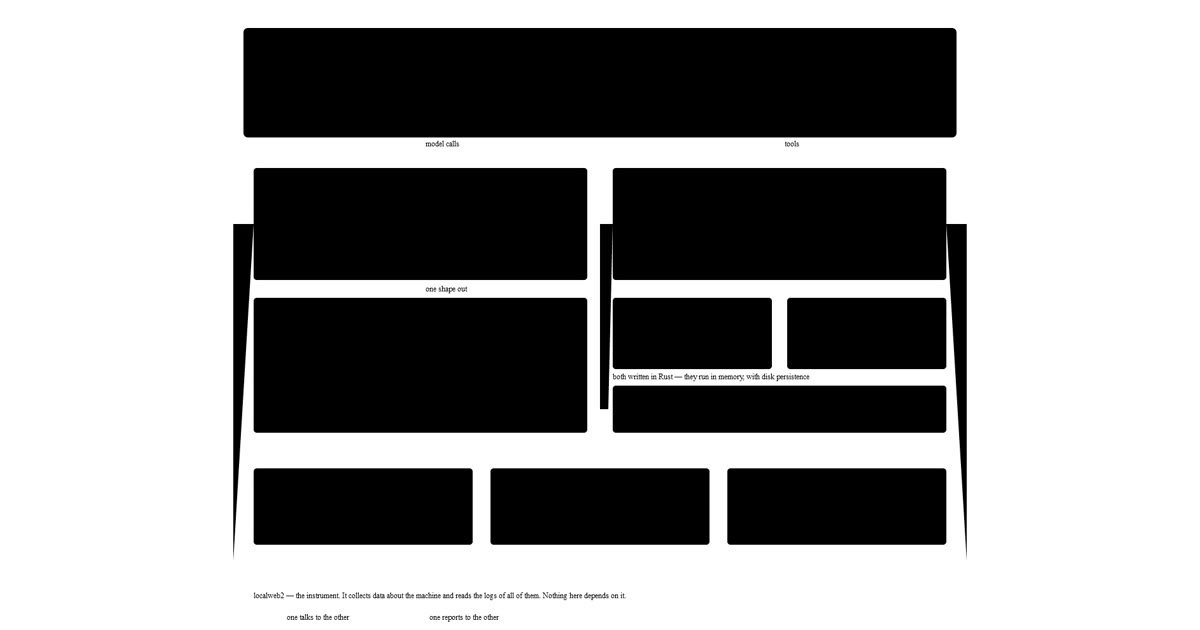
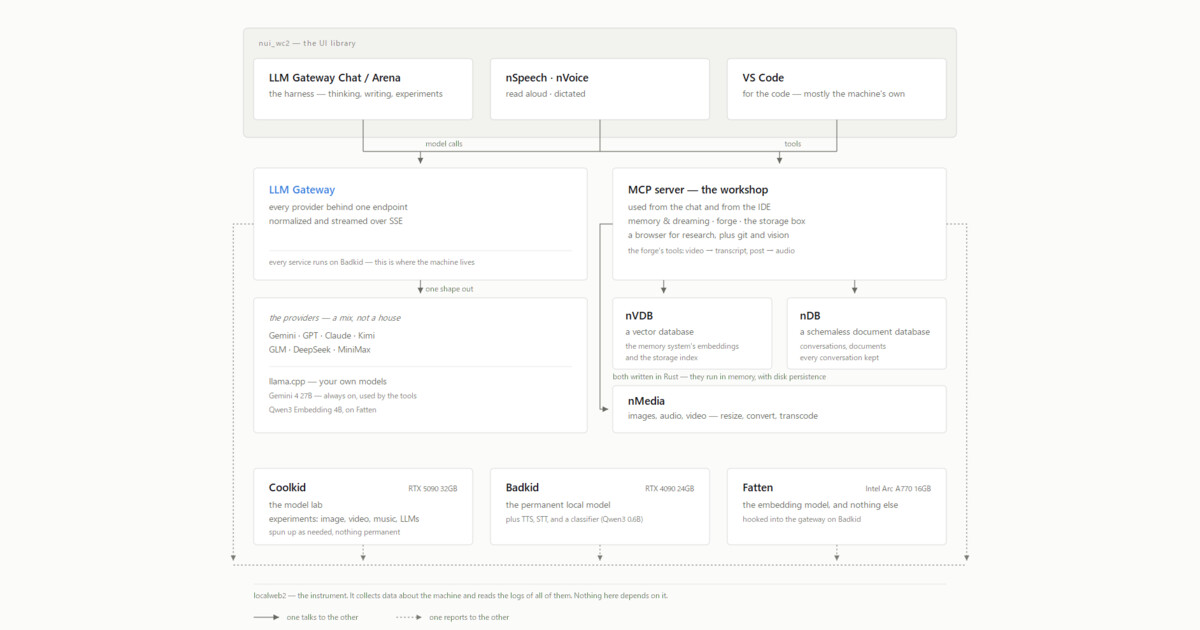
Machine diagrams: raster-safe styling, fix the black social card
The diagram SVGs styled their colours with CSS custom properties, which
librsvg (ImageMagick) and nMedia cannot parse — they drop the whole
stylesheet and rasterize every card black. That is why The Machine's
share image was a mass of black boxes.

- Replace the custom-property stylesheet in the three machine diagrams
  with literal colours; keep dark mode as a browser-only
  prefers-color-scheme block and drop the dead [data-theme] variant
  (the diagram is an <img>, nothing sets that attribute).
- Rasterize SVG heroes with ImageMagick via an SVG_CARDS list in
  make-og-cards.mjs: scale-to-fit and letterboxed, never cropped, since
  a crop eats diagram tiers. Regenerate the-machine_og.jpg.
- Only derive og:image from a *_hero.webp hero; any other hero falls
  back to the default card rather than emitting the SVG itself.

Verified in a browser: the diagrams render light in light mode and dark
in dark mode (the <img> SVG inherits the page colour-scheme), so the
manual theme toggle drives them too.

diff --git a/Agents.md b/Agents.md
@@ -267,7 +267,7 @@ rather than hardcoded to `posts[]`:
 - **Adding a section needs no route code**: a manifest object plus a `<name>-lead` fragment. `tools/build.mjs` and `buildLlmsTxt` iterate the sections; `pages.mjs` builds the index from the same list.
 - Section posts are still BlogPosting, `isPartOf` the section's own `#blog` @id, and get their own hreflang alternates and `<link rel="alternate" type="text/markdown">`.
 - `series` and `related` stay main-blog-scoped: a section post that names `links.related` resolves those slugs against `manifest.posts`, which is the correct target for a cross-link.
-- A hero that is not `_hero.webp` (an SVG diagram) has no derived og card, so the manifest entry declares `image` explicitly and the build asserts that file exists. The value may be `card.jpg` or `images/card.jpg` — both normalise.
+- A hero that is not `_hero.webp` (an SVG diagram) gets no card from its name, so the manifest entry declares `image` explicitly and the build asserts that file exists; the card is produced by `tools/make-og-cards.mjs`'s `SVG_CARDS` list (ImageMagick, scale-to-fit letterboxed). The value may be `card.jpg` or `images/card.jpg` — both normalise.
 
 ### 6.1 Manifest structure (`content/index.json`)
 
@@ -427,7 +427,7 @@ The old n000b CMS has a richer block schema (sections, groups, columns, vars, fi
 6. **Analytics** — **DECIDED: yes, and live: nAlytics** (own service, extracted from nPort 2026-09-16; nPort is the thin edge in front, endpoint `POST https://nport.raum.com/analytics/ping`). Cookieless, no banner: one `fetch`, nothing read or written on the device, daily-salted visit dedup server-side, DNT/GPC visitors not measured at all. The beacon is baked into every page by `beacon()` in `tools/lib/pages.mjs` (as high in `<head>` as the charset allows, so short visits count) — the fields are `path`, `referrer`, `lang`, `w`, `h`, `dpr`, `conn`, everything else derived server-side; `path` is the only required one. Adding anything to the snippet that touches the visitor's device turns it into a consent-banner problem. Accepted local artefact: on the home LAN the request makes Chrome raise its Local Network Access prompt (nport.raum.com resolves privately there) — see the comment at the removal-and-restore site in `pages.mjs` before touching it. Spec: nAlytics `docs/beacon-snippet.md`; origins must be in nAlytics' `ORIGINS` allowlist.
 7. **Home-page hero (`featured`)** — **DECIDED: removed.** There is no latest/featured piece on the home page anymore (removed 2026-09-08). The home page is threshold → intro → three entry points → FAQ. If a single feature paragraph is ever wanted back, reintroduce a `featured` pick then.
 8. **Submit / proofread workflow between English and German** — currently a two-stage pipeline (English final → German re-composition, by GLM 5.2). The German register rules are in `storage/blog/AGENTS.md`. No automation yet. Could become a per-post valve when the corpus grows.
-9. **Per-article social cards** — **RESOLVED (2026-10-02).** Every post (and every page with hero art) now shares its own 1200×630 **JPEG** card, generated from its hero block by `tools/make-og-cards.mjs` (ffmpeg, WebP→JPEG crop-to-fill) and mirrored to storage. The build derives `og:image` / `twitter:image` / JSON-LD `image` from the hero name, emits `og:image:width/height/type`, and **throws if a card is missing**. The reason this mattered: a **WebP** `og:image` is silently dropped by most scrapers (LinkedIn, WhatsApp, Slack, often X/Facebook), which is exactly why shares showed no image. The hero stays WebP for display — only the shared card is JPEG. Regenerate after changing hero art: `node tools/make-og-cards.mjs`.
+9. **Per-article social cards** — **RESOLVED (2026-10-02).** Every post (and every page with hero art) now shares its own 1200×630 **JPEG** card, generated from its hero block by `tools/make-og-cards.mjs` (ffmpeg, WebP→JPEG crop-to-fill; SVG diagrams rasterized with ImageMagick and letterboxed) and mirrored to storage. The build derives `og:image` / `twitter:image` / JSON-LD `image` from the hero name, emits `og:image:width/height/type`, and **throws if a card is missing**. The reason this mattered: a **WebP** `og:image` is silently dropped by most scrapers (LinkedIn, WhatsApp, Slack, often X/Facebook), which is exactly why shares showed no image. The hero stays WebP for display — only the shared card is JPEG. Regenerate after changing hero art: `node tools/make-og-cards.mjs`.
 
 ---
 
@@ -545,7 +545,7 @@ The renderer reads from the repo at runtime, so the repo must contain a current 
 A post is **publishable** when it sits in `storage/blog/posts/` (elevated from `drafts/`) AND its German version exists. **Publishing itself is user-triggered** — the user says "publish X", never publish on your own initiative.
 
 1. **QA the canonical (storage, not repo):** read the EN + DE files. Check frontmatter completeness (`title, slug, lang, created, modified, version, authors(id+role), tags, summary`, `series`/`seriesIndex` when applicable), EN/DE metadata consistency, and scan the prose for leftovers (chunk markers, editor notes, broken formatting). **Fix errors in the canonical storage file** — never patch the repo copy.
-2. **Mirror to repo:** copy EN + DE byte-exact to the section's content root (`content/posts/` for the blog, `content/machine/posts/` for Machine) (pages → `content/pages/`, bios → `content/authors/`). Images too (publish = the whole slug folder). Then `node tools/make-og-cards.mjs` to (re)generate the 1200×630 JPEG sharing card from the hero — **the build fails without it**. A hero that is not `_hero.webp` (an SVG diagram) has no derivable card: declare `image` on the manifest entry and rasterize it yourself.
+2. **Mirror to repo:** copy EN + DE byte-exact to the section's content root (`content/posts/` for the blog, `content/machine/posts/` for Machine) (pages → `content/pages/`, bios → `content/authors/`). Images too (publish = the whole slug folder). Then `node tools/make-og-cards.mjs` to (re)generate the 1200×630 JPEG sharing card from the hero — **the build fails without it**. A hero that is not `_hero.webp` (an SVG diagram) has no card derivable from its name: declare `image` on the manifest entry and add its source→card pair to `SVG_CARDS` in `tools/make-og-cards.mjs` (ImageMagick, letterboxed — never crop a diagram).
 3. **Manifest:** add/update the entry in `content/index.json` from the YAML (date=created, teaser=summary, tags, authors, `de.*`, `links.series/seriesIndex`).
 4. **Build + validate:** `node tools/build.mjs`, then `node tools/validate-jsonld.mjs`. Spot-check the built page.
 5. **Deploy:** commit + push (GitHub Pages) or folder sync to the webhoster.
@@ -580,7 +580,7 @@ The runtime SPA was replaced by a **static build** — content is baked into fla
 - **SEO/GEO layer (2026-09-07):** every page carries a single JSON-LD `@graph` (stable `@id`s: `/#website`, `/authors/{id}/#person`) — WebSite + Person sitewide, BlogPosting (posts: full author chain from YAML, datePublished/Modified, keywords, wordCount, AudioObject when audio exists), Article (religion), Dataset (arena sessions: models as `keywords`, creator = site Person, `DataDownload` distributions for raw JSON + transcript.md; arena index `CollectionPage` links all via `hasPart`), ProfilePage (authors), AboutPage + FAQPage (about), CollectionPage (arena index), BreadcrumbList everywhere except home. Open Graph + Twitter card meta, `hreflang` incl. `x-default`. Every page carries `og:image` — the per-post/page **JPEG card** derived from the hero (default `assets/img/og-default.jpg`, 1200×630, for pages with no hero art), with `og:image:width/height/type`; article nodes carry `image` — silences Google's last non-critical Article issue. Bilingual FAQ lives in `manifest.site.faq` (single source for visible section on About + FAQPage schema — answers must stay plain text, no markdown, so both match exactly). Validate with `node tools/validate-jsonld.mjs`. `sitemap.xml` is generated per build with hreflang pairs; `robots.txt` points to it. Best-practice basis: GEO project specs (`D:\Work\_GIT\GEO\docs\collection\schema-org-best-practices.md`, `content-substance.md`).
 - **Code path:** `tools/lib/pages.mjs` (Site class — all page builders ported from the old `assets/js/app.js`) + `tools/lib/md.mjs` (markdownToHtml ported from `modules/nui_wc2/NUI/nui.js` so baked pages render identically to the old client-side `nui-markdown`; fenced code emits plain `<pre><code>`, frontmatter stripped).
 - **md-blocks rendering (`tools/lib/md.mjs`):** upstream `nui.js` splits rendering in two — a structure-aware pass (`parseBlocks` + `mbRender*`, nui.js ~7553-8510) that consumes `mb:` directives from the source, and a structure-*unaware* markdown core that drops every HTML comment. `nui-markdown` runs both, so the component supports the spec fully. The build cannot: `nui.js` is a browser ESM (`class NuiMarkdown extends HTMLElement`) and importing it in Node throws `HTMLElement is not defined`. So `md.mjs` carries its own structure-aware pre-pass for the containers the site uses — `mb:block` (presets `byline`, `player`, `image:hero`, media figures) and `mb:columns`/`mb:col`. Columns emit **nui_wc2's exact markup** (`nui-blocks-columns` / `nui-blocks-col`, `data-cols`, inline `grid-template-columns` — byte-compatible with `mbRenderColumns`), so the site CSS stays valid if the build ever imports the real renderer instead. Two deliberate deviations from upstream: weights are validated and **thrown on** where upstream degrades to equal columns, and a column cell is rendered with the frontmatter strip disabled. Style lives in `site.css` under `.nui-blocks-columns` (gap, rhythm, the ≤800px stack). Spec: `documentation/md-blocks/md-blocks-spec.md` §4.3.
-- **Social cards:** `tools/make-og-cards.mjs` (ffmpeg) turns each `{name}_hero.webp` into a 1200×630 JPEG `{name}_og.jpg`, mirrored to storage. The build derives `og:image`/`twitter:image`/JSON-LD `image` from the hero name and asserts the card exists — a WebP og:image is silently dropped by scrapers (§ Open Question 9).
+- **Social cards:** `tools/make-og-cards.mjs` turns each `{name}_hero.webp` into a 1200×630 JPEG `{name}_og.jpg` (ffmpeg, crop-to-fill), mirrored to storage. SVG diagram heroes are listed in the tool's `SVG_CARDS` and rasterized with ImageMagick, scale-to-fit and **letterboxed, never cropped** — a crop eats diagram tiers. The build derives `og:image`/`twitter:image`/JSON-LD `image` from the hero name and asserts the card exists — a WebP og:image is silently dropped by scrapers (§ Open Question 9). **Diagram SVGs must style with literal colours, never CSS custom properties:** librsvg (ImageMagick, and so ffmpeg) and nMedia drop a custom-property stylesheet *entirely* and rasterize the diagram as black boxes (fixed 2026-10-06). Dark mode stays a browser-only `prefers-color-scheme` block — a rasterizer ignores it and gets the light design.
 - **URL map (EN):** `/`, `/writing/`, `/writing/{slug}/`, `/machine/`, `/machine/{slug}/`, `/arena/`, `/arena/{slug}/` (+ `transcript.md` per session), `/religion/`, `/about/`, `/authors/{id}/`. **DE mirrors under `/de/`** except arena + authors (original language). No hash routing; Apache `DirectoryIndex index.html` resolves the pretty dirs — no rewrite rules needed.
 - **Machine readability:** every page carries `<link rel="alternate" type="text/markdown">` to its raw MD, `hreflang` alternates for DE, and a canonical. `llms.txt` is regenerated from the manifest each build (HTML links primary, `[MD]`/`[DE]`/`[JSON]` alternates inline) — it cannot drift.
 - **Runtime JS:** `assets/js/chrome.js` only (theme cycle + mobile menu). Audio is native `<audio controls>` (no `nui-media-player`). Sort toggle on `/writing/` was dropped — list is baked in latest-first order.
